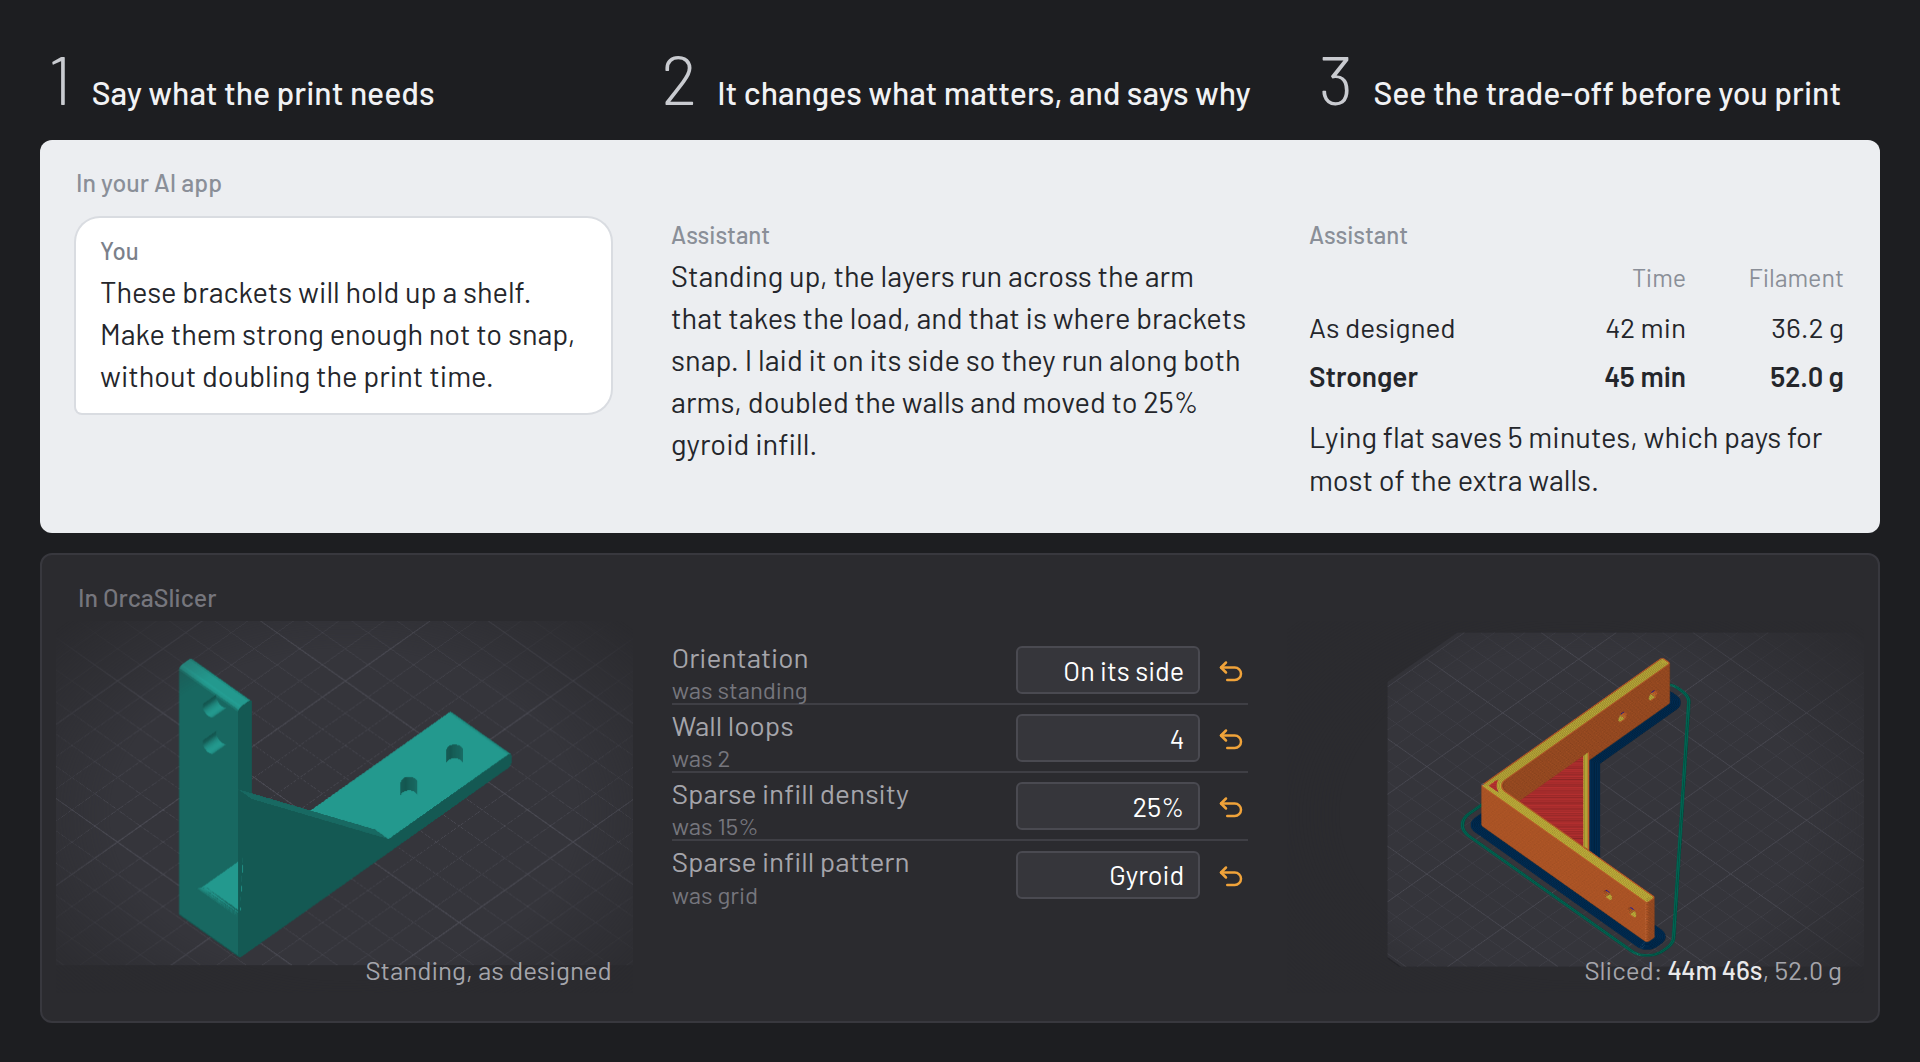
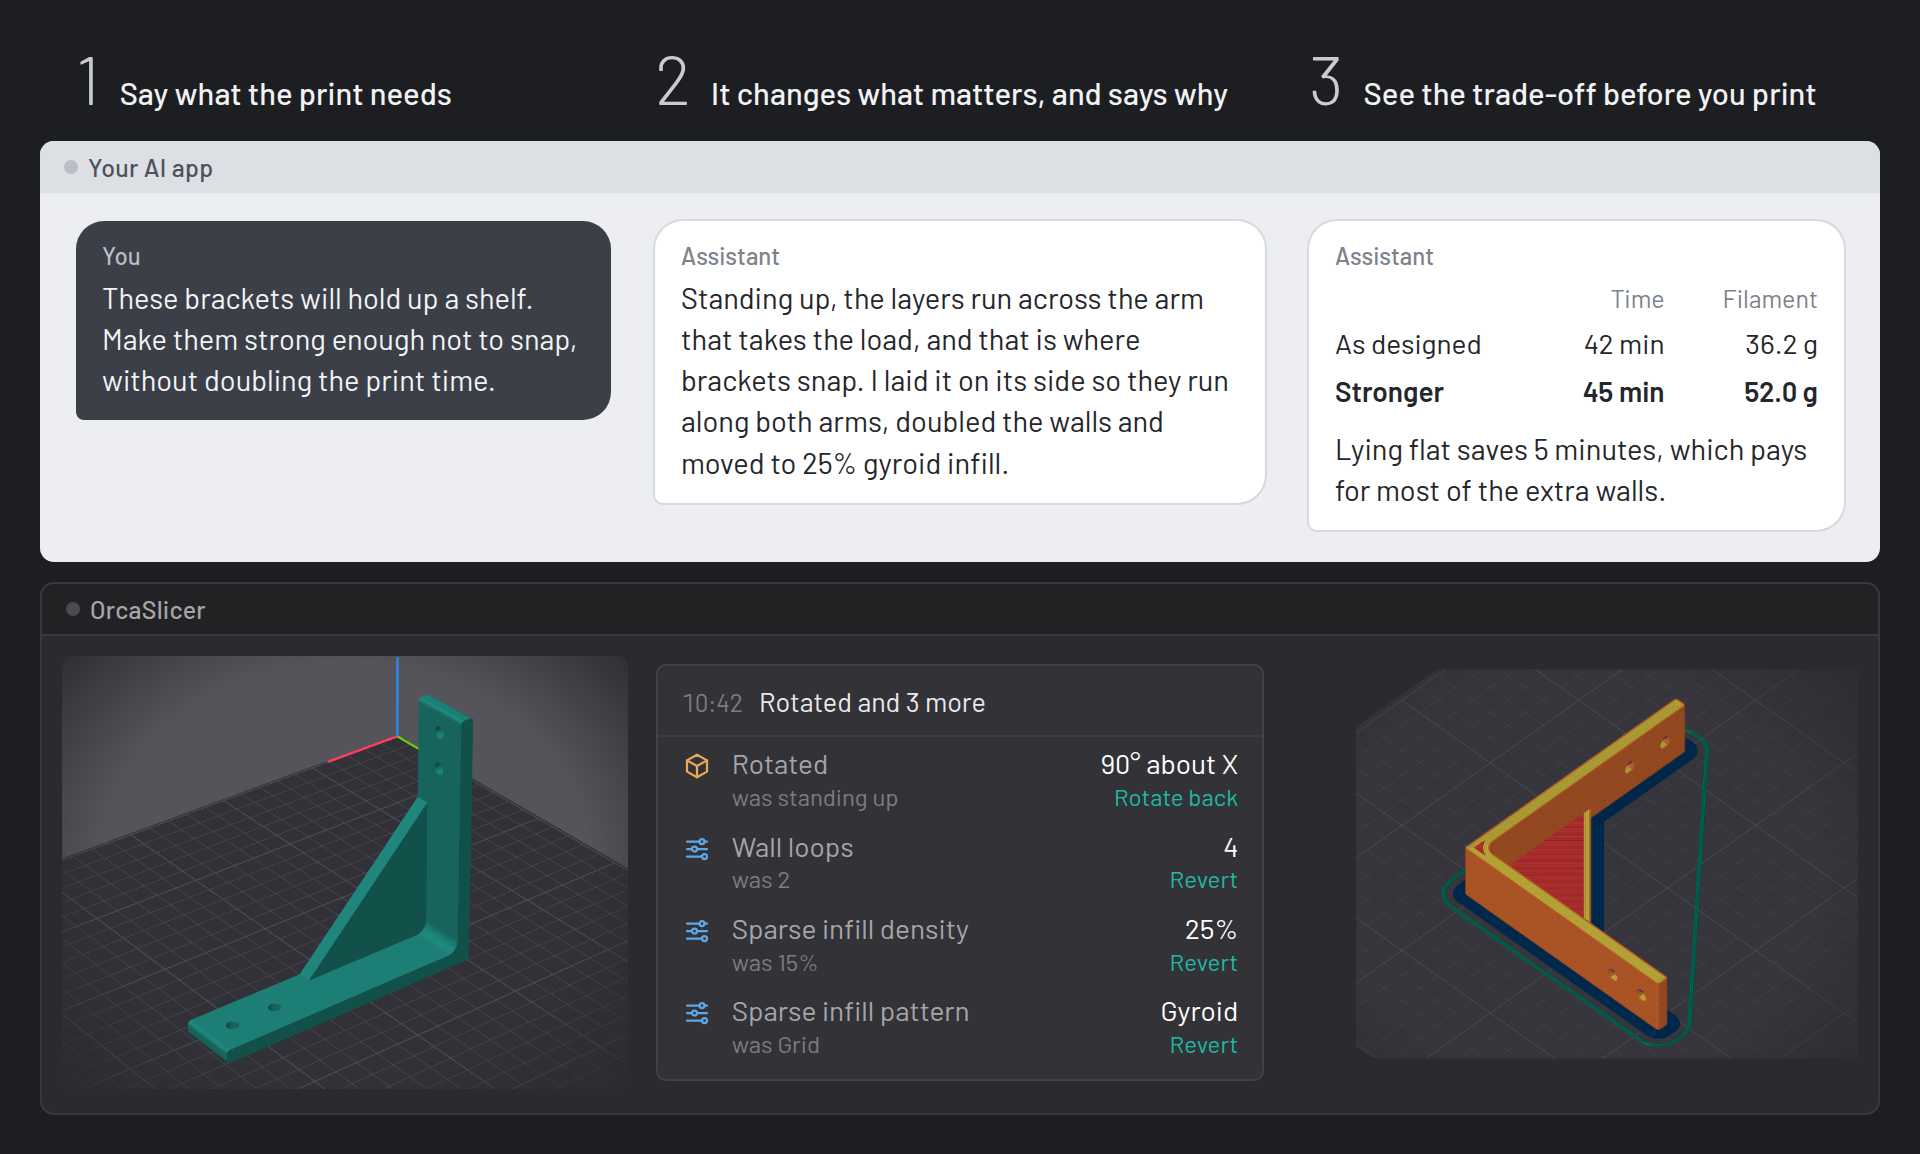
doc: story strip with chat bubbles, window bars and the MCP panel's own rows

diff --git a/README.md b/README.md
@@ -13,7 +13,7 @@
   <a href="https://lobehub.com/mcp/maxellis-orcaslicer-mcp"><img alt="MCP Badge" src="https://lobehub.com/badge/mcp/maxellis-orcaslicer-mcp"></a>
 </p>
 
-<p align="center"><img src="https://raw.githubusercontent.com/MaxEllis/orcaslicer-mcp/main/docs/images/story.png" alt="Three steps, your AI app above and OrcaSlicer below. 1: you write that the brackets will hold up a shelf and must not snap, without doubling the print time; OrcaSlicer shows the bracket standing, as designed. 2: the assistant explains that standing up, the layers run across the arm that takes the load; it lays the bracket on its side, raises wall loops from 2 to 4 and sparse infill from 15% grid to 25% gyroid, each change marked with a reset arrow. 3: OrcaSlicer's slices: 42 min and 36.2 g as designed, 45 min and 52.0 g stronger; lying flat saved 5 minutes, which pays for most of the extra walls."></p>
+<p align="center"><img src="https://raw.githubusercontent.com/MaxEllis/orcaslicer-mcp/main/docs/images/story.png" alt="Three steps: a chat in your AI app above, OrcaSlicer below. 1: you write that the brackets will hold up a shelf and must not snap, without doubling the print time; OrcaSlicer shows the bracket standing. 2: the assistant explains that standing up, the layers run across the arm that takes the load, and lays it on its side with more walls and 25% gyroid infill; OrcaSlicer's MCP panel lists each change with Rotate back or Revert. 3: OrcaSlicer's slices compared: 42 min and 36.2 g as designed, 45 min and 52.0 g stronger; lying flat saves 5 minutes."></p>
 
 You talk to the assistant in your usual AI app, in plain words. It makes the changes in OrcaSlicer, in the window you already use: settings, presets, models, slicing. A panel beside the 3D view lists every change it makes, with a way to undo each one.
 
